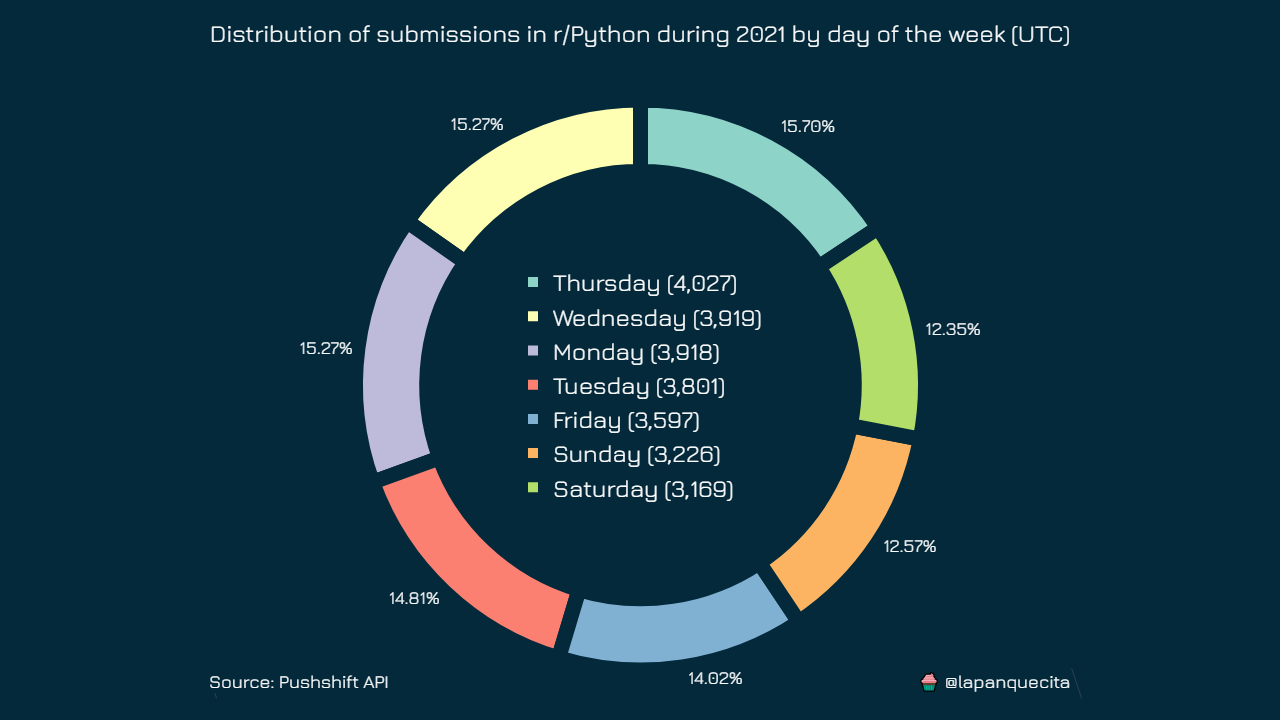
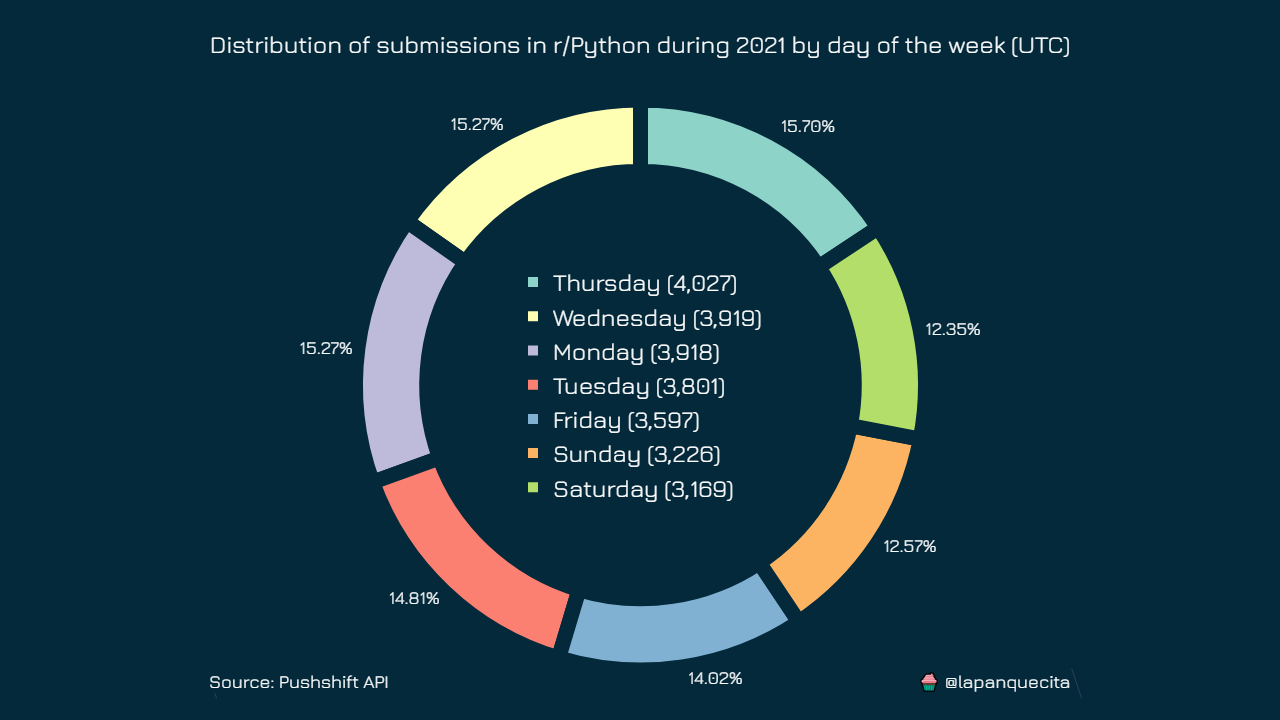
Add files via upload

Changed region(s): [[0.1562, 0.0306, 0.8438, 0.0917]]

diff --git a/plotter.py b/plotter.py
@@ -557,7 +557,7 @@ def plot_donut():
         font_size=18,
         title_text="Distribution of submissions in r/Python during 2021 by day of the week (UTC)",
         title_x=0.5,
-        title_y=0.965,
+        title_y=0.95,
         margin_t=100,
         margin_l=40,
         margin_r=40,
@@ -591,7 +591,7 @@ def plot_donut():
 
 if __name__ == "__main__":
 
-    # plot_calendar()
-    # plot_radar()
-    # plot_bars()
+    plot_calendar()
+    plot_radar()
+    plot_bars()
     plot_donut()
